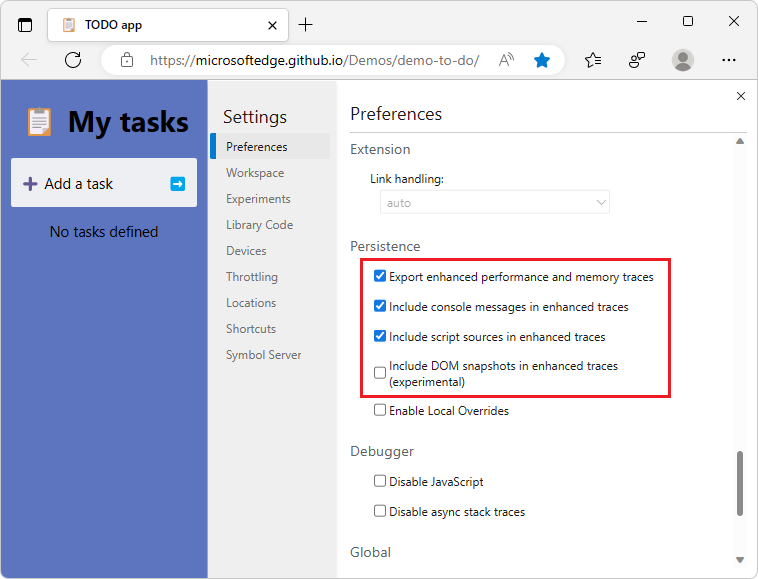
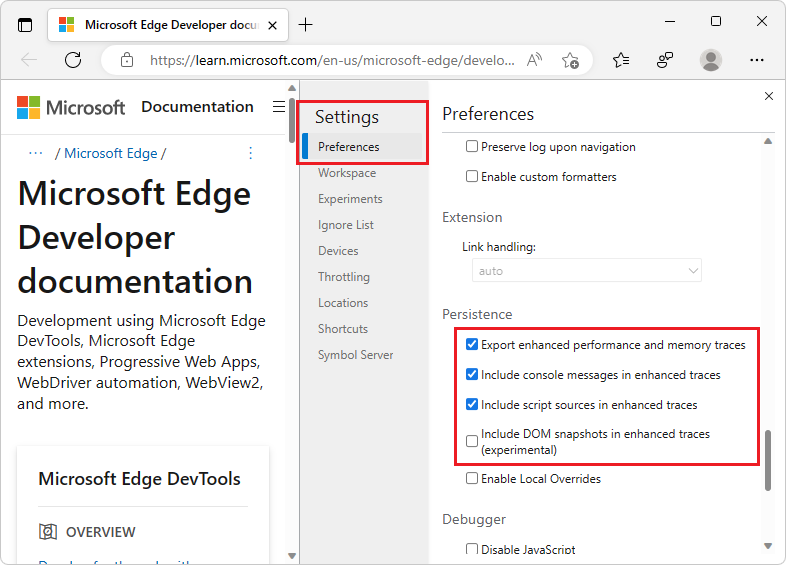
.devtools export png

diff --git a/microsoft-edge/devtools-guide-chromium/whats-new/2023/01/devtools-109.md b/microsoft-edge/devtools-guide-chromium/whats-new/2023/01/devtools-109.md
@@ -47,7 +47,7 @@ When you then import the `.devtools` file, a new instance of DevTools opens, wit
 
 1. In the **Memory** tool, click the **Save** button.<!-- todo: test -->
 
-   Or, in the **Performance** tool, right-click the **Export** button , and then select the `.devtools` file format:
+   Or, in the **Performance** tool, right-click the **Save profile** (![Save profile icon](./devtools-109-images/save-profile-icon.png)) button, and then select **.devtools (enhanced format for Microsoft Edge)**:
 
    ![Exporting a trace](./devtools-109-images/enhanced-trace-export.png)
 
@@ -56,28 +56,19 @@ When you then import the `.devtools` file, a new instance of DevTools opens, wit
 1. Import the `.devtools` file in either the **Memory** tool or the **Performance** tool:
 
    ![Importing a trace](./devtools-109-images/enhanced-trace-import.png)
+<!-- todo: Instructions for screenshot
+6.	Now clear the profile and select the import button. Load the attached .devtools file.
+7.	A new DevTools window opens and loads your trace. Take a screenshot. Refer to "enhanced-trace-import.png".
+-->
 
 1. A new DevTools window opens, containing a subset of the tools, including the **Memory** and **Performance** tools.  The **Elements**, **Console**, and **Sources** tools are pre-populated with the preserved state:
 
    ![Trace import console](./devtools-109-images/enhanced-trace-import-console.png)
+<!-- todo: Instructions for screenshot
+8.	Finally, in the new DevTools window, open the Console. You should see only one Console warning and a message that the Console is read only. Take a screenshot. Refer to "enhanced-trace-import-console.png".
+-->
 
 This is a new feature that the DevTools team is actively experimenting with, so please [send us your feedback in our GitHub repo](https://github.com/MicrosoftEdge/DevTools/issues)!
-
-<!--
-Instructions for screenshot
-1.	Open any of the Edge Insider channels. Navigate to edge://version and ensure you're on version 109+
-2.	Navigate to Microsoft Edge DevTools documentation - Microsoft Edge Development | Microsoft Learn
-3.	Open DevTools > Settings. Take a screenshot. Draw red highlight boxes around the new settings under **Persistence**. Refer to the attached enhanced-trace-settings.png
- 
-4.	Now turn on these settings. Go the Performance tool and take a trace. Right click the Export button
-5.	Take a screenshot. Draw a red highlight box around the context menu for the export button. Refer to enhanced-trace-export.png
- 
-6.	Now clear the profile and select the import button. Load the attached .devtools file
- 
-7.	A new DevTools window opens and loads your trace. Take a screenshot. Refer to enhanced-trace-import.png
- 
-8.	Finally, in the new DevTools window, open the Console. You should see only one Console warning and a message that the Console is read only. Take a screenshot. Refer to enhanced-trace-import-console.png
--->
 
 See also:
 * [Share performance and memory traces (PR 2388 draft)](https://github.com/MicrosoftDocs/edge-developer/blob/user/pabrosse/enhanced-traces/microsoft-edge/devtools-guide-chromium/evaluate-performance/share-traces.md)
